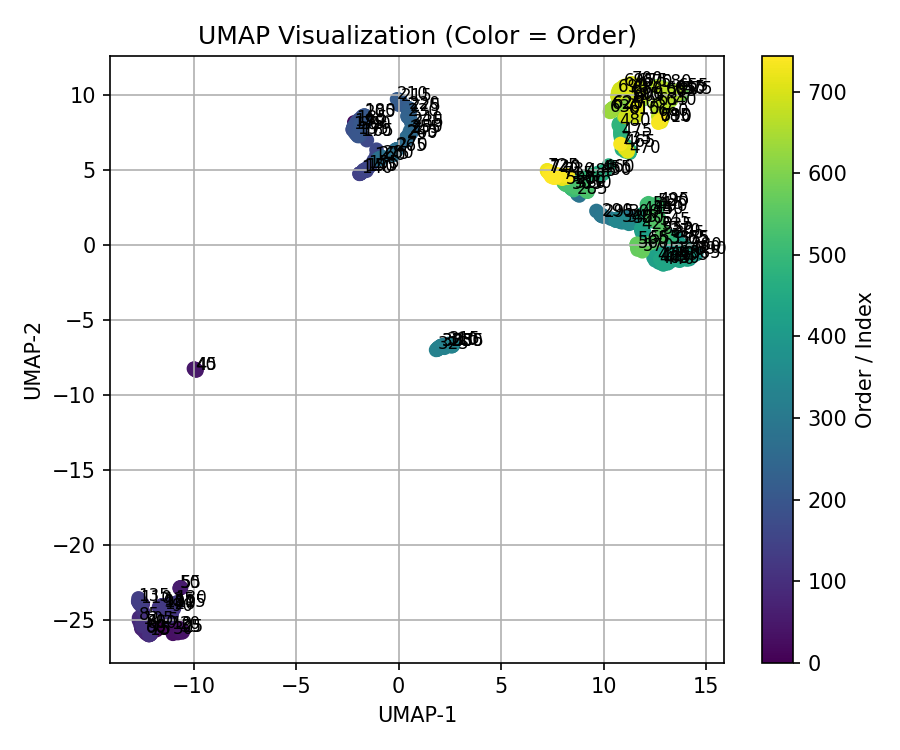
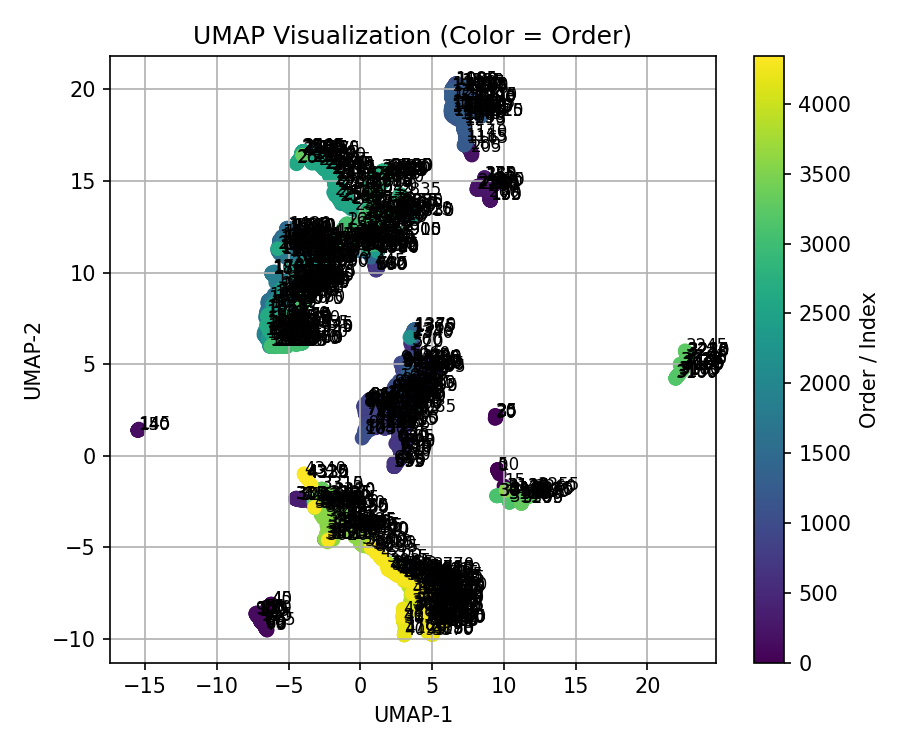
module update

diff --git a/module/plot_figure/PCA_plot.py b/module/plot_figure/PCA_plot.py
@@ -1,7 +1,7 @@
 import matplotlib.pyplot as plt
 import numpy as np
 
-def pca_plot_2D(data,pca_vector,pca_variance_ratio,labels=None,plot_samping=-1):
+def pca_plot_2D(data,pca_vector,pca_variance_ratio,labels=None,plot_samping=-1,figure_name='pca_plot'):
 
     latent_data = np.matmul(data, pca_vector)
     x = latent_data[:,0]
@@ -30,11 +30,11 @@ def pca_plot_2D(data,pca_vector,pca_variance_ratio,labels=None,plot_samping=-1):
     if (y_max - y_min) < 0.5:
         ax.set_ylim(-0.3, 0.3)
 
-    plt.savefig('pca_plot.png', dpi=150)
+    plt.savefig(figure_name+'.png', dpi=150)
     plt.show()
     print('finished plotting')
 
-def pca_plot_3D(data,pca_vector,pca_variance_ratio,labels=None,plot_samping=-1):
+def pca_plot_3D(data,pca_vector,pca_variance_ratio,labels=None,plot_samping=-1,figure_name='pca_plot_3D'):
 
     latent_data = np.matmul(data, pca_vector)  # (N x 3)
     x = latent_data[:, 0]
@@ -69,11 +69,11 @@ def pca_plot_3D(data,pca_vector,pca_variance_ratio,labels=None,plot_samping=-1):
         ax.set_zlim(-0.3, 0.3)
 
     plt.tight_layout()
-    plt.savefig('pca_plot_3D.png', dpi=150)
+    plt.savefig(figure_name+'.png', dpi=150)
     plt.show()
     print('finished 3D plotting')
 
-def pca_plot_2D_color(data,pca_vector,pca_variance_ratio,plot_samping=-1):
+def pca_plot_2D_color(data,pca_vector,pca_variance_ratio,plot_samping=-1,figure_name='pca_plot_colored'):
 
     latent_data = np.matmul(data, pca_vector)
     x = latent_data[:, 0]
@@ -103,11 +103,11 @@ def pca_plot_2D_color(data,pca_vector,pca_variance_ratio,plot_samping=-1):
     if (y_max - y_min) < 0.5:
         ax.set_ylim(-0.3, 0.3)
 
-    plt.savefig('pca_plot_colored.png', dpi=150)
+    plt.savefig(figure_name+'.png', dpi=150)
     plt.show()
     print('finished plotting')
 
-def pca_plot_3D_color(data,pca_vector,pca_variance_ratio,plot_samping=-1):
+def pca_plot_3D_color(data,pca_vector,pca_variance_ratio,plot_samping=-1,figure_name='pca_plot_3D_colored'):
 
     latent_data = np.matmul(data, pca_vector)  # (N x 3)
     x = latent_data[:, 0]
@@ -144,7 +144,7 @@ def pca_plot_3D_color(data,pca_vector,pca_variance_ratio,plot_samping=-1):
     cbar = plt.colorbar(sc, ax=ax, pad=0.1, shrink=0.8)
     cbar.set_label('Order / Index')
     plt.tight_layout()
-    plt.savefig('pca_plot_3D_colored.png', dpi=150)
+    plt.savefig(figure_name+'.png', dpi=150)
     plt.show()
     print('finished 3D plotting')
 

diff --git a/module/plot_figure/tSNE_plot.py b/module/plot_figure/tSNE_plot.py
@@ -1,7 +1,7 @@
 import matplotlib.pyplot as plt
 import numpy as np
 
-def tsne_plot_2D(data,labels=None,sample=30,plot_samping=-1):
+def tsne_plot_2D(data,labels=None,sample=30,plot_samping=-1,figure_name='t-SNE_plot'):
     plt.figure(figsize=(6, 5))
     plt.scatter(data[:, 0], data[:, 1], c=labels, s=sample)
     for i in range(0,len(data),plot_samping):
@@ -11,10 +11,10 @@ def tsne_plot_2D(data,labels=None,sample=30,plot_samping=-1):
     plt.xlabel("t-SNE-1")
     plt.ylabel("t-SNE-2")
     plt.tight_layout()
-    plt.savefig('t-SNE_plot.png', dpi=150)
+    plt.savefig(figure_name+'.png', dpi=150)
     plt.show()
 
-def tsne_plot_2D_color(data,plot_samping=-1):
+def tsne_plot_2D_color(data,plot_samping=-1,figure_name='t-SNE_plot_colored'):
     plt.figure(figsize=(6, 5))
     order_colors = np.arange(len(data))
     sc = plt.scatter(data[:, 0], data[:, 1], c=order_colors, cmap='viridis')
@@ -30,7 +30,7 @@ def tsne_plot_2D_color(data,plot_samping=-1):
     plt.tight_layout()
     cbar = plt.colorbar(sc)
     cbar.set_label('Order / Index')
-    plt.savefig('t-SNE_plot_colored.png', dpi=150)
+    plt.savefig(figure_name+'.png', dpi=150)
     plt.show()
 
     print('finished t-SNE plotting')
@@ -38,7 +38,7 @@ def tsne_plot_2D_color(data,plot_samping=-1):
 
 
 
-def tsne_plot_3D(data,labels=None,plot_samping=-1):
+def tsne_plot_3D(data,labels=None,plot_samping=-1,figure_name='t-SNE_plot_3D'):
     fig = plt.figure(figsize=(6, 5))
     ax = fig.add_subplot(111, projection='3d')
     ax.scatter(data[:, 0], data[:, 1], data[:, 2], c=labels)
@@ -52,10 +52,10 @@ def tsne_plot_3D(data,labels=None,plot_samping=-1):
     ax.set_ylabel("t-SNE-2")
     ax.set_zlabel("t-SNE-3")
     plt.tight_layout()
-    plt.savefig('t-SNE_plot_3D.png', dpi=150)
+    plt.savefig(figure_name+'.png', dpi=150)
     plt.show()
 
-def tsne_plot_3D_color(data,plot_samping=-1):
+def tsne_plot_3D_color(data,plot_samping=-1,figure_name='t-SNE_plot_3D_colored'):
     fig = plt.figure(figsize=(8, 6))
     ax = fig.add_subplot(111, projection='3d')
     order_colors = np.arange(len(data))
@@ -74,5 +74,5 @@ def tsne_plot_3D_color(data,plot_samping=-1):
     cbar = plt.colorbar(sc, ax=ax, pad=0.1, shrink=0.8)
     cbar.set_label('Order / Index')
     plt.tight_layout()
-    plt.savefig('t-SNE_plot_3D_colored.png', dpi=150)
+    plt.savefig(figure_name+'.png', dpi=150)
     plt.show()

diff --git a/module/plot_figure/UMPA_plot.py b/module/plot_figure/UMPA_plot.py
@@ -1,7 +1,7 @@
 import matplotlib.pyplot as plt
 import numpy as np
 
-def umap_plot_2D(data,labels=None,plot_samping=-1):
+def umap_plot_2D(data,labels=None,plot_samping=-1,figure_name='umap_plot'):
     plt.figure(figsize=(6, 5))
     plt.scatter(data[:, 0], data[:, 1], c=labels)
 
@@ -13,10 +13,10 @@ def umap_plot_2D(data,labels=None,plot_samping=-1):
     plt.xlabel("UMAP-1")
     plt.ylabel("UMAP-2")
     plt.tight_layout()
-    plt.savefig('umap_plot.png', dpi=150)
+    plt.savefig(figure_name+'.png', dpi=150)
     plt.show()
 
-def umap_plot_2D_color(data,plot_samping=-1):
+def umap_plot_2D_color(data,plot_samping=-1,figure_name='umap_plot_colored'):
     plt.figure(figsize=(6, 5))
     order_colors = np.arange(len(data))
     sc = plt.scatter(data[:, 0], data[:, 1], c=order_colors, cmap='viridis')
@@ -32,11 +32,11 @@ def umap_plot_2D_color(data,plot_samping=-1):
     plt.tight_layout()
     cbar = plt.colorbar(sc)
     cbar.set_label('Order / Index')
-    plt.savefig('umap_plot_colored.png', dpi=150)
+    plt.savefig(figure_name+'.png', dpi=150)
     plt.show()
     print('finished UMAP plotting')
 
-def umap_plot_3D(data,labels=None,plot_samping=-1):
+def umap_plot_3D(data,labels=None,plot_samping=-1,figure_name='umap_plot_3D'):
     fig = plt.figure(figsize=(6, 5))
     ax = fig.add_subplot(111, projection='3d')
     ax.scatter(data[:, 0], data[:, 1], data[:, 2], c=labels,)
@@ -50,10 +50,10 @@ def umap_plot_3D(data,labels=None,plot_samping=-1):
     ax.set_ylabel("UMAP-2")
     ax.set_zlabel("UMAP-3")
     plt.tight_layout()
-    plt.savefig('umap_plot_3D.png', dpi=150)
+    plt.savefig(figure_name+'.png', dpi=150)
     plt.show()
 
-def umap_plot_3D_color(data,plot_samping=-1):
+def umap_plot_3D_color(data,plot_samping=-1,figure_name='umap_plot_3D_colored'):
     fig = plt.figure(figsize=(8, 6))
     ax = fig.add_subplot(111, projection='3d')
     order_colors = np.arange(len(data))
@@ -72,6 +72,6 @@ def umap_plot_3D_color(data,plot_samping=-1):
     cbar = plt.colorbar(sc, ax=ax, pad=0.1, shrink=0.8)
     cbar.set_label('Order / Index')
     plt.tight_layout()
-    plt.savefig('umap_plot_3D_colored.png', dpi=150)
+    plt.savefig(figure_name+'.png', dpi=150)
     plt.show()
     print('finished UMAP 3D plotting')

diff --git a/main_code.py b/main_code.py
@@ -9,10 +9,10 @@ def simulation_pca(x,y=None):
     # x, y = load_iris(return_X_y=True)
     normalize_data,mean_data,std_data= normalize.normalize_gaussian(data=x)
     pca_model,pca_vector,pca_variance,pca_variance_ratio,latent_data = (
-        PCA_EJ.pca_train(data=normalize_data,n_components=3,))
-    PCA_plot.pca_plot_3D(
+        PCA_EJ.pca_train(data=normalize_data,n_components=2,))
+    PCA_plot.pca_plot_2D(
         data=normalize_data,pca_vector=pca_vector,pca_variance_ratio=pca_variance_ratio,plot_samping=5,labels=y)
-    PCA_plot.pca_plot_3D_color(
+    PCA_plot.pca_plot_2D_color(
         data=normalize_data,pca_vector=pca_vector,pca_variance_ratio=pca_variance_ratio,plot_samping=5)
 
 def simulation_umap(x,y=None):
@@ -25,9 +25,9 @@ def simulation_umap(x,y=None):
 def simulation_tsne(x,y=None):
     # x, y = load_iris(return_X_y=True)
     normalize_data, mean_data, std_data = normalize.normalize_gaussian(data=x)
-    tSNE_EJ.tsne_mapping(data=normalize_data,n_components=3,perplexity=30,random_state=42,)
-    tSNE_plot.tsne_plot_3D(data=normalize_data,labels=y,plot_samping=5,)
-    tSNE_plot.tsne_plot_3D_color(data=normalize_data,plot_samping=5,)
+    tSNE_EJ.tsne_mapping(data=normalize_data,n_components=2,perplexity=30,random_state=42,)
+    tSNE_plot.tsne_plot_2D(data=normalize_data,labels=y,plot_samping=5,)
+    tSNE_plot.tsne_plot_2D_color(data=normalize_data,plot_samping=5,)
 
 def main():
     # try:
@@ -38,10 +38,11 @@ def main():
     data=pd.read_excel(r'D:\Pycharm Project\2EH\data\Heat_Recovery_System.xlsx',sheet_name='Sheet2')
     # interval_data=samping_method.interval_sampling(data=data,interval_count=5,start_index=1)
     interval_data = samping_method.time_sampling(
-        data, interval_count=3600, start_time='2023-01-01', end_time='2023-02-01 ')
+        data, interval_count=3600, start_time='2023-01-01', end_time='2023-07-01 ')
     interval_data_np=interval_data.iloc[:, 1:].to_numpy(dtype=float)
-    simulation_tsne(x=interval_data_np)
-
+    # simulation_pca(x=interval_data_np)
+    # simulation_tsne(x=interval_data_np)
+    simulation_umap(x=interval_data_np)
     print('end')
     # except Exception as e:
     #     error_callback.print_project_trace(e)
